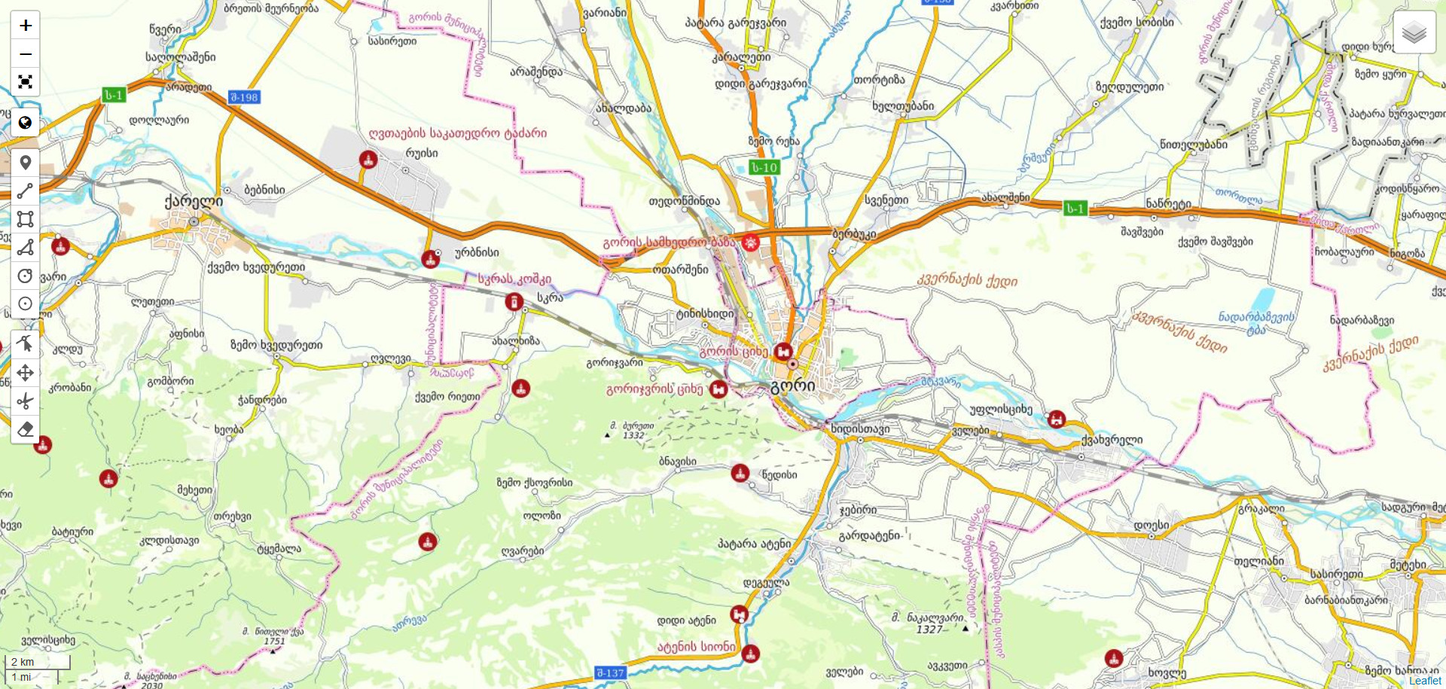
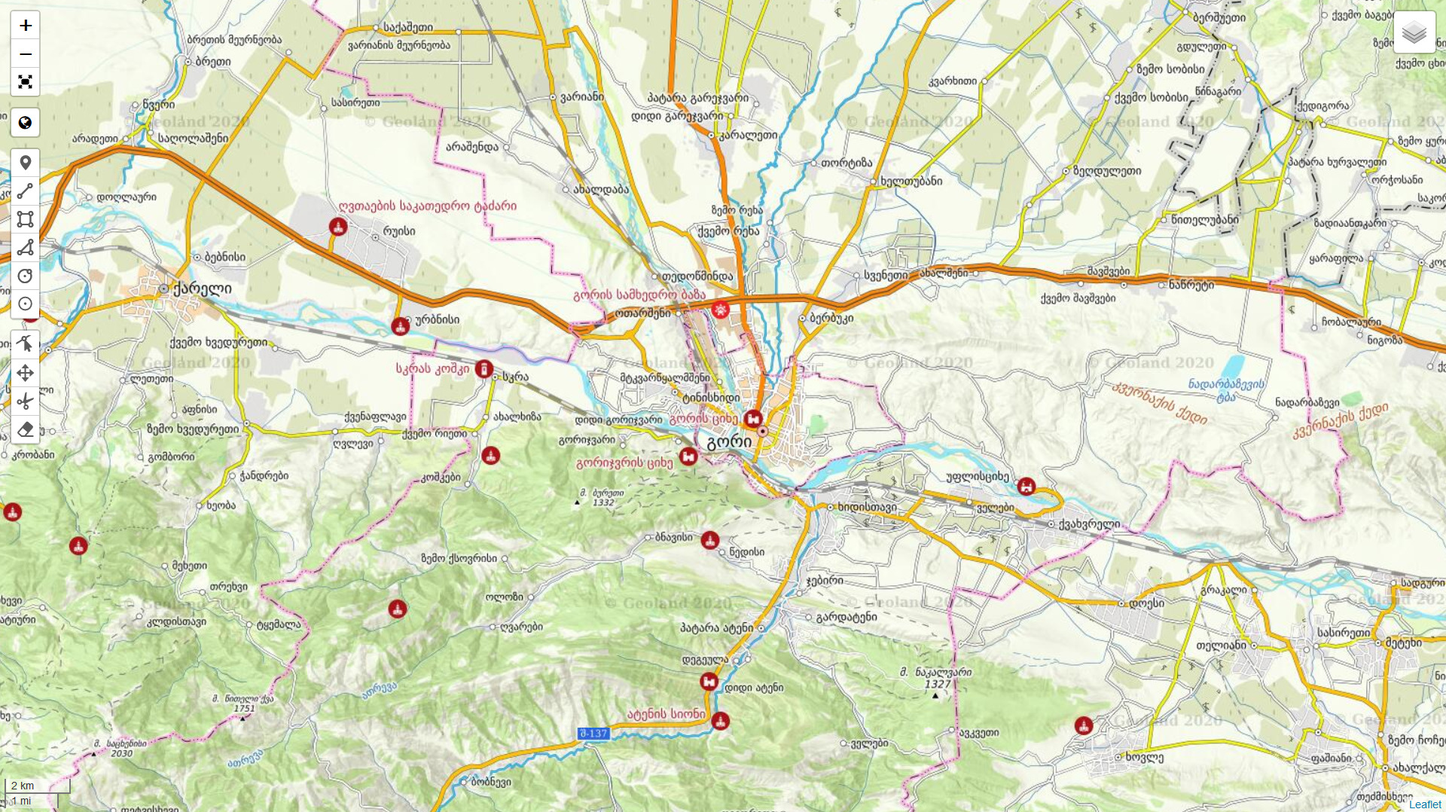
md screenshots update

diff --git a/README.md b/README.md
@@ -20,10 +20,14 @@ The project aims to provide to users the best and comprehensive coverage of Geor
 
 <img src="docs/my_georgia_satellite.jpg" alt="MyGeorgia Project Sattelite" style="max-width:100%">
 
-### MyGeorgia Main View
+### MyGeorgia General Map View *(English)*
 
-<img src="docs/my_georgia_main.jpg" alt="MyGeorgia Project" style="max-width:100%">
+<img src="docs/my_georgia_main.jpg" alt="MyGeorgia Project General Map View" style="max-width:100%">
 
-### MyGeorgia Gori Centered View
+### MyGeorgia Administrative Map View *(English)*
 
-<img src="docs/my_georgia_-_gori.jpg" alt="MyGeorgia Project" style="max-width:100%">
+<img src="docs/my_georgia_-_tbilisi.jpg" alt="MyGeorgia Project Administrative Map View" style="max-width:100%">
+
+### MyGeorgia General Map Gori Centered View *(Georgian)*
+
+<img src="docs/my_georgia_-_gori.jpg" alt="MyGeorgia Project General Map Gori Centered View" style="max-width:100%">
